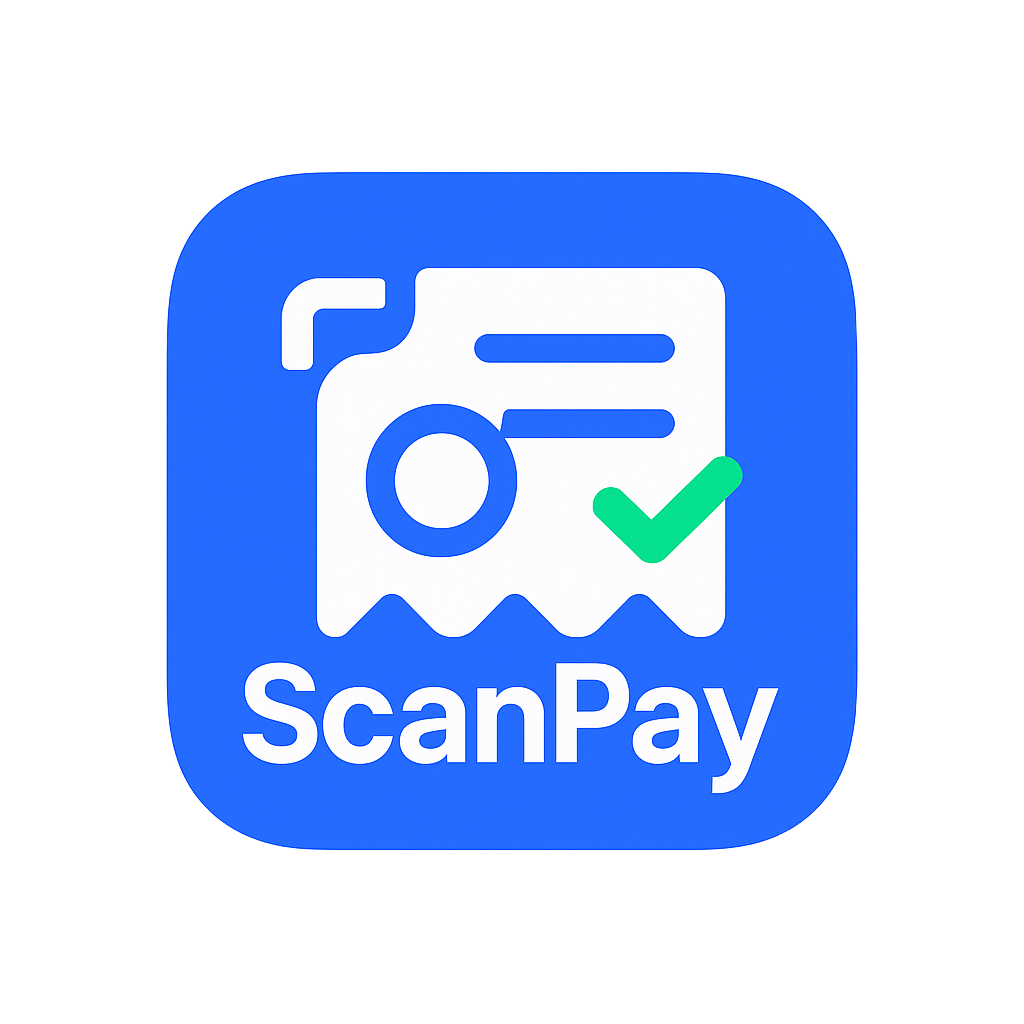
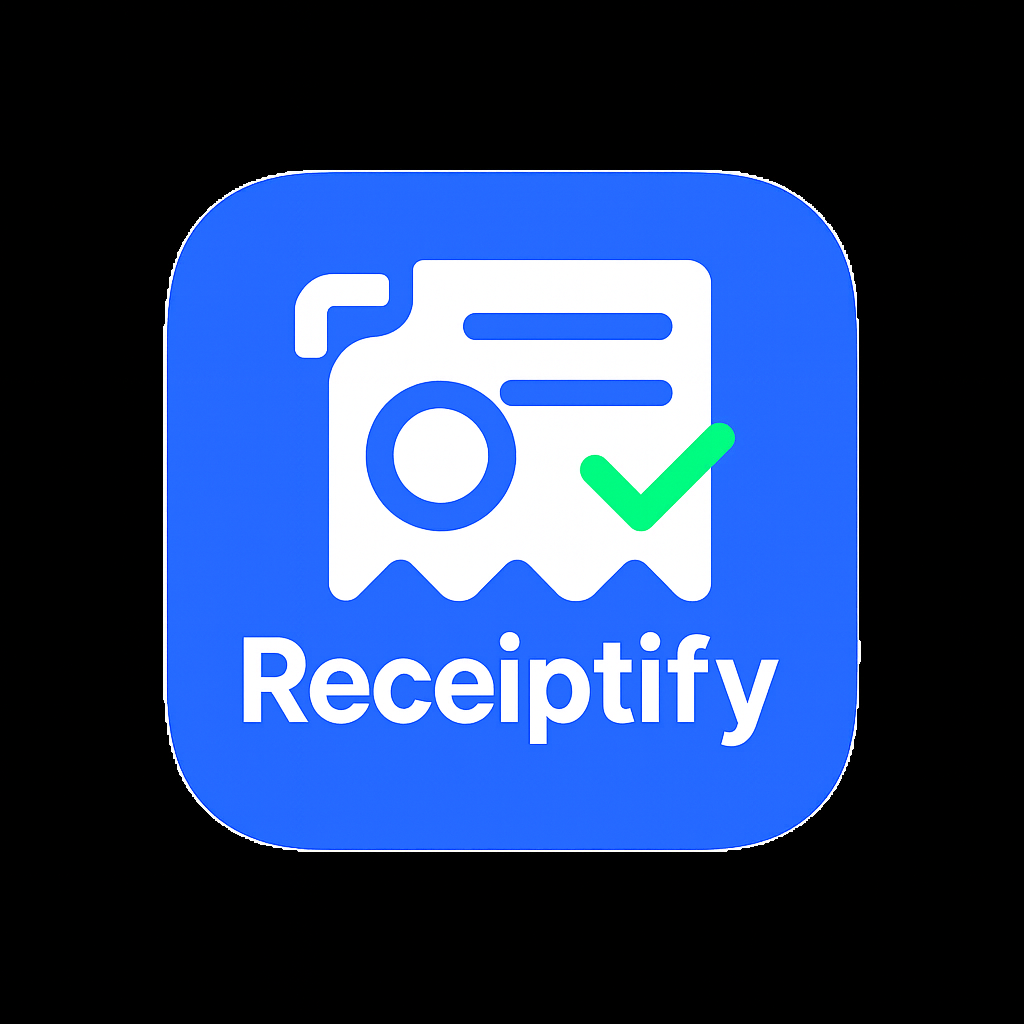
ScanPay CGU

diff --git a/README.md b/README.md
@@ -1,1 +1,1 @@
-# CGU ScanPay
+# CGU Receiptify
